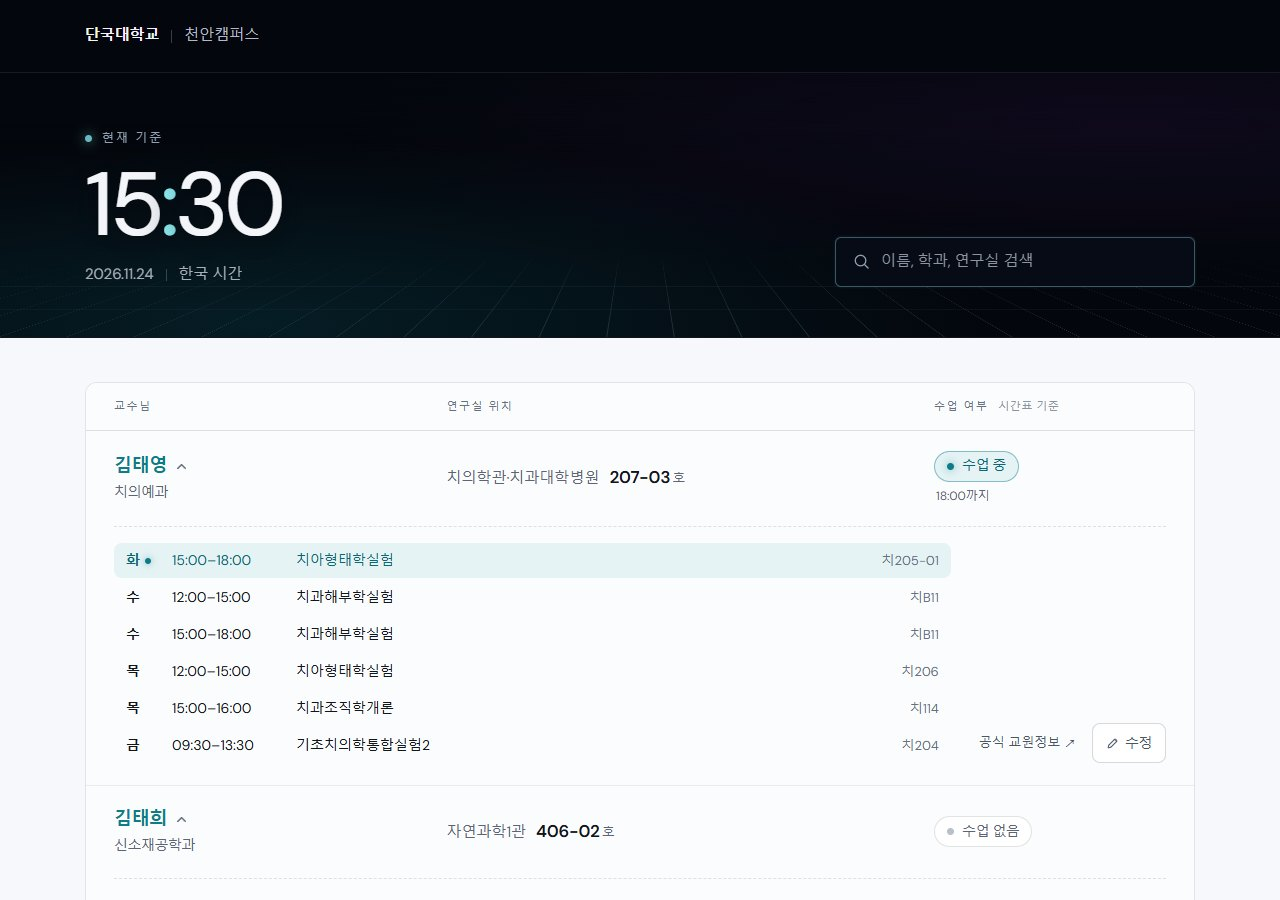
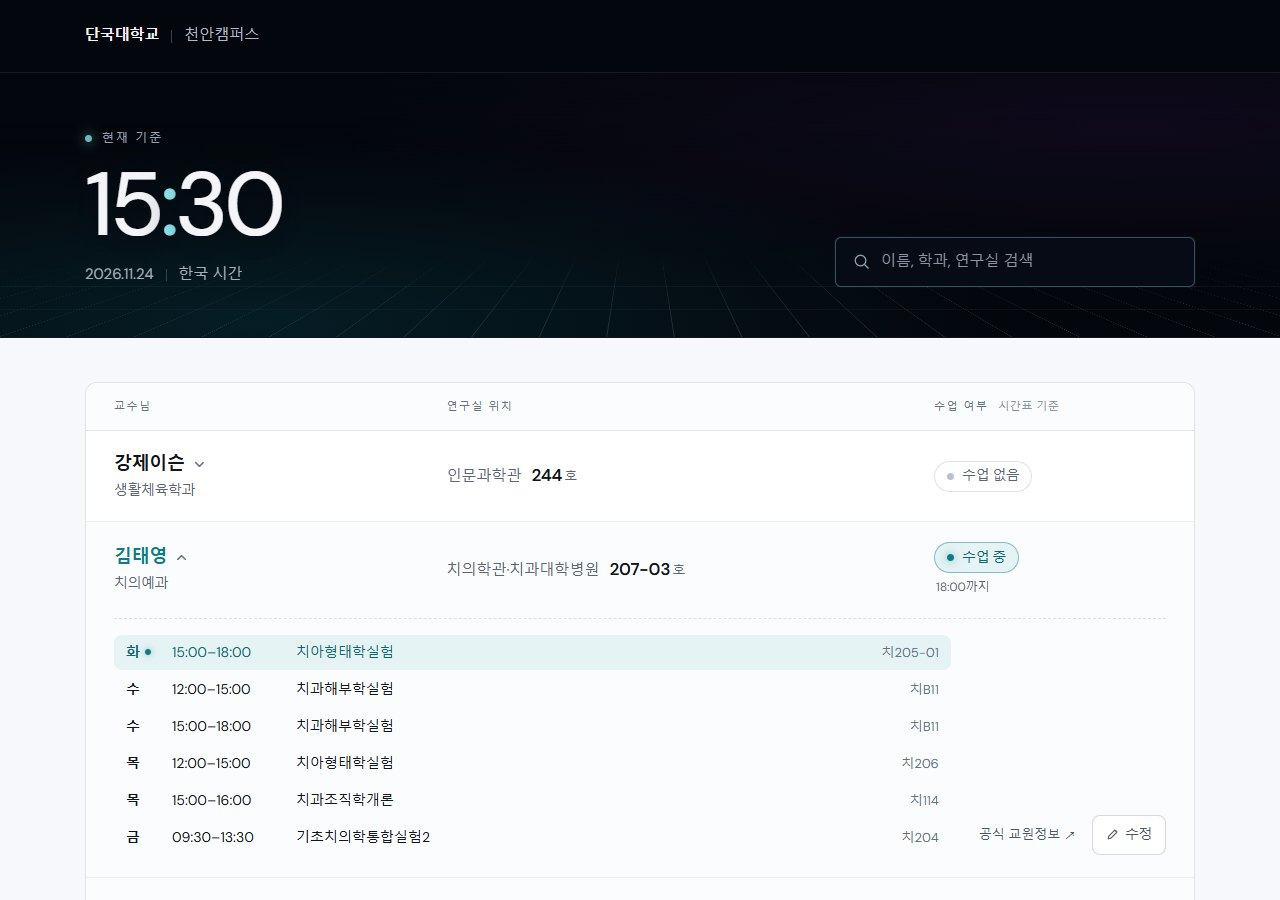
Anyone can save edits: the site posts to the Apps Script save service
The editor no longer asks for a key. It sends the professor's building, room and classes to the Apps Script web app, which validates them and commits site/data.js. The site also removes the GitHub key that the earlier version kept in the browser. README explains the save path and how to change the key.

diff --git a/site/app.js b/site/app.js
@@ -1,15 +1,17 @@
 /* 현재 시각(한국 시간)으로 교수님별 수업 여부를 계산해 표를 채운다.
-   이름을 누르면 그 교수님의 수업 시간이 아래로 펼쳐지고, '수정'으로 연구실·수업 시간을 고쳐
-   GitHub 저장소의 site/data.js에 바로 저장한다(관리자 키 필요, 저장 뒤 1~2분이면 사이트에 반영). */
+   이름을 누르면 그 교수님의 수업 시간이 아래로 펼쳐지고, '수정'으로 연구실·수업 시간을 고칠 수 있다.
+   저장은 누구나 할 수 있다: 저장 담당 Google Apps Script(apps-script/Code.gs)가 내용을 검사한 뒤
+   GitHub 저장소의 site/data.js에 커밋하고, 1~2분 뒤 사이트에 반영된다(키는 Apps Script 안에만 있음). */
 (function () {
   'use strict';
-  var REPO = 'taeheekim2024-star/go.taeheekim.kr';
-  var DATA_PATH = 'site/data.js';
-  var KEY_STORE = 'go-site-github-key';
-  var AUTHOR = { name: 'taeheekim2024-star', email: '295946926+taeheekim2024-star@users.noreply.github.com' };
+  var SAVE_URL = 'https://script.google.com/macros/s/AKfycbzAu1eopgCFC0UlqjWzMLiZxXSylPyjEvsUjgCh26W2imjFvGS-29w_O-ZmOzA_O6HnDg/exec';
+  var OLD_KEY_STORE = 'go-site-github-key';
   var DAYS = ['일', '월', '화', '수', '목', '금', '토'];
   var DAY_ORDER = [1, 2, 3, 4, 5, 6, 0];
   var D = null; // data.js를 받은 뒤 채움(start 참고)
+
+  // 예전 방식(브라우저에 GitHub 키 저장)에서 남은 키는 이제 필요 없으므로 지운다.
+  try { localStorage.removeItem(OLD_KEY_STORE); } catch (e) { /* 저장소를 못 쓰는 브라우저 */ }
 
   /* ---------- 수업 여부 계산 ---------- */
   // kind: class(수업 중) · free(수업 없음) · unknown(시간표 미확인) · expired(학기 밖이라 갱신 필요)
@@ -46,47 +48,8 @@
     });
   }
 
-  /* ---------- data.js 읽고 쓰기(형식은 go_site_kit/migrate-data.mjs와 같아야 함) ---------- */
-  var HEADER = "/* 교수님 연구실·시간표 자료. 사이트에서 '수정'으로 저장하면 이 파일 전체가 다시 써진다.\n" +
-    "   'window.FACULTY = ' 뒤는 JSON 형식을 지킨다(큰따옴표, 주석·끝 쉼표 없음).\n" +
-    "   events: day 0=일 1=월 … 6=토, start·end는 한국 시간 'HH:MM', room은 강의실. */";
-  function serialize(d) {
-    var q = JSON.stringify;
-    var lines = [HEADER, 'window.FACULTY = {'];
-    Object.keys(d).forEach(function (key) {
-      if (key !== 'professors') lines.push('  ' + q(key) + ': ' + q(d[key]) + ',');
-    });
-    lines.push('  "professors": [');
-    d.professors.forEach(function (p, i) {
-      var head = Object.keys(p).filter(function (k) { return k !== 'events'; })
-        .map(function (k) { return q(k) + ': ' + q(p[k]); }).join(', ');
-      lines.push('    {' + head + ', "events": [');
-      p.events.forEach(function (e, j) { lines.push('      ' + q(e) + (j < p.events.length - 1 ? ',' : '')); });
-      lines.push('    ]}' + (i < d.professors.length - 1 ? ',' : ''));
-    });
-    lines.push('  ]', '};', '');
-    return lines.join('\n');
-  }
-  function parseData(text) {
-    var start = text.indexOf('{', text.indexOf('window.FACULTY'));
-    var end = text.lastIndexOf('}');
-    return JSON.parse(text.slice(start, end + 1));
-  }
-  function toBase64(text) {
-    var bytes = new TextEncoder().encode(text);
-    var binary = '';
-    for (var i = 0; i < bytes.length; i += 0x8000) binary += String.fromCharCode.apply(null, bytes.subarray(i, i + 0x8000));
-    return btoa(binary);
-  }
-  function fromBase64(b64) {
-    var binary = atob(b64.replace(/\s/g, ''));
-    var bytes = new Uint8Array(binary.length);
-    for (var i = 0; i < binary.length; i++) bytes[i] = binary.charCodeAt(i);
-    return new TextDecoder().decode(bytes);
-  }
-
   window.FacultyLogic = {
-    statusAt: statusAt, seoulNow: seoulNow, serialize: serialize, parseData: parseData,
+    statusAt: statusAt, seoulNow: seoulNow,
     get people() { return D.professors; },
   };
 
@@ -365,22 +328,6 @@
     });
     body.append(add);
 
-    var keyBox = el('div', 'ed-key');
-    var keyInput = el('input');
-    keyInput.type = 'password';
-    keyInput.autocomplete = 'off';
-    keyInput.placeholder = 'github_pat_…';
-    // 키는 한 번 넣으면 이 기기에 저장되어 그다음부터는 칸 자체가 보이지 않는다(틀린 키면 다시 물음).
-    function paintKey() {
-      keyBox.textContent = '';
-      keyBox.hidden = !!localStorage.getItem(KEY_STORE);
-      if (keyBox.hidden) return;
-      keyBox.append(field('관리자 키 (GitHub)', keyInput));
-      keyBox.append(el('p', 'ed-hint', '처음 한 번만 넣으면 이 기기에 저장됩니다.'));
-    }
-    paintKey();
-    body.append(keyBox);
-
     var foot = el('div', 'ed-foot');
     var error = el('p', 'ed-error');
     error.setAttribute('role', 'alert');
@@ -441,30 +388,21 @@
         if (e.start >= e.end) return fail(e.title + ': 종료 시각이 시작보다 늦어야 합니다.');
         events.push(e);
       }
-      var storedKey = localStorage.getItem(KEY_STORE);
-      var key = storedKey || keyInput.value.trim();
-      if (!key) return fail('관리자 키를 넣어 주세요.');
-      var change = { building: building.value.trim(), room: room.value.trim(), events: sortEvents(events) };
+      var change = { id: person.id, building: building.value.trim(), room: room.value.trim(), events: sortEvents(events) };
       var unchanged = change.building === person.building && change.room === person.room &&
         JSON.stringify(change.events) === JSON.stringify(sortEvents(person.events));
-      if (unchanged && storedKey) {
+      if (unchanged) {
         shut();
         return toast('바뀐 내용이 없습니다.');
       }
       saving = true;
       save.disabled = true;
       save.textContent = '저장 중…';
-      // 바뀐 것 없이 새 키만 넣은 경우: 저장소를 한 번 읽어 키가 맞는지만 확인하고 키를 기억한다.
-      var job = unchanged
-        ? github('GET', '/repos/' + REPO + '/contents/' + DATA_PATH + '?ref=main', key).then(function () { return null; })
-        : saveToGitHub(person.id, person.name, change, key);
-      job.then(function (latest) {
-        localStorage.setItem(KEY_STORE, key);
-        saving = false;
-        shut();
-        if (!latest) return toast('관리자 키를 이 기기에 저장했습니다. 바뀐 내용은 없습니다.');
+      sendChange(change).then(function (latest) {
         D = latest;
         window.FACULTY = latest;
+        saving = false;
+        shut();
         buildRows();
         var row = rows.find(function (r) { return r.person.id === person.id; });
         if (row && row.toggle) row.toggle.focus();
@@ -473,70 +411,28 @@
         saving = false;
         save.disabled = false;
         save.textContent = '저장';
-        if (err && err.status === 401) {
-          localStorage.removeItem(KEY_STORE);
-          paintKey();
-          return fail('관리자 키가 맞지 않습니다. 키를 다시 넣어 주세요.');
-        }
-        if (err && (err.status === 403 || err.status === 404)) return fail('이 키로는 저장할 수 없습니다. 키의 저장소 권한(Contents 쓰기)을 확인해 주세요.');
         fail(err && err.userMessage ? err.userMessage : '저장하지 못했습니다. 연결을 확인하고 다시 저장해 주세요.');
       });
     });
   }
 
-  function github(method, path, key, body) {
-    return fetch('https://api.github.com' + path, {
-      method: method,
-      cache: 'no-store',
-      headers: {
-        'Accept': 'application/vnd.github+json',
-        'Authorization': 'Bearer ' + key,
-        'X-GitHub-Api-Version': '2022-11-28',
-        'Content-Type': 'application/json',
-      },
-      body: body ? JSON.stringify(body) : undefined,
+  // 저장 담당 Apps Script로 보낸다. text/plain으로 보내 사전 확인(preflight) 없이 가고, 쿠키는 보내지 않는다.
+  function sendChange(change) {
+    return fetch(SAVE_URL, {
+      method: 'POST',
+      credentials: 'omit',
+      redirect: 'follow',
+      headers: { 'Content-Type': 'text/plain;charset=utf-8' },
+      body: JSON.stringify(change),
     }).then(function (response) {
-      return response.json().catch(function () { return {}; }).then(function (data) {
-        if (!response.ok) {
-          var err = new Error(data && data.message ? data.message : 'GitHub ' + response.status);
-          err.status = response.status;
-          throw err;
-        }
-        return data;
-      });
-    });
-  }
-
-  // 저장소의 최신 data.js를 받아 이 교수님 자료만 바꿔 다시 올린다(다른 기기에서 고친 내용 보존).
-  function saveToGitHub(id, name, change, key, retried) {
-    var path = '/repos/' + REPO + '/contents/' + DATA_PATH;
-    return github('GET', path + '?ref=main', key).then(function (file) {
-      var latest;
-      try { latest = parseData(fromBase64(file.content)); } catch (e) {
-        var err = new Error('parse');
-        err.userMessage = '저장소의 자료 파일 형식을 읽지 못했습니다.';
+      return response.json();
+    }).then(function (result) {
+      if (!result || !result.ok || !result.data) {
+        var err = new Error('save failed');
+        err.userMessage = result && result.error ? result.error : '저장하지 못했습니다. 잠시 뒤 다시 저장해 주세요.';
         throw err;
       }
-      var target = latest.professors.find(function (p) { return p.id === id; });
-      if (!target) {
-        var missing = new Error('missing');
-        missing.userMessage = '저장소 자료에서 이 교수님을 찾지 못했습니다.';
-        throw missing;
-      }
-      target.building = change.building;
-      target.room = change.room;
-      target.events = change.events;
-      return github('PUT', path, key, {
-        message: name + ' 교수님 정보 수정',
-        content: toBase64(serialize(latest)),
-        sha: file.sha,
-        branch: 'main',
-        author: AUTHOR,
-        committer: AUTHOR,
-      }).then(function () { return latest; });
-    }).catch(function (err) {
-      if (!retried && err && (err.status === 409 || err.status === 422)) return saveToGitHub(id, name, change, key, true);
-      throw err;
+      return result.data;
     });
   }
 

diff --git a/site/style.css b/site/style.css
@@ -111,8 +111,6 @@ button:focus-visible,a:focus-visible,input:focus-visible{outline:2px solid var(-
 .ed-remove:hover{background:#f6ebe7}
 .ed-add{display:block;width:100%;min-height:44px;margin-top:10px;border:1px dashed rgba(18,21,26,.25);border-radius:6px;background:#fff;font-size:14px;color:var(--ink)}
 .ed-add:hover{border-color:var(--accent);color:var(--accent)}
-.ed-key{margin-top:20px;padding-top:16px;border-top:1px solid var(--line)}
-.ed-hint{margin-top:6px;font-size:12px;color:var(--soft)}
 .ed-foot{flex-shrink:0;padding:14px 22px 18px;border-top:1px solid var(--line);background:#f7f8fb}
 .ed-error{margin:0 0 12px;padding:10px 12px;border:1px solid #eddbd3;border-radius:6px;background:#fff1eb;font-size:13.5px;line-height:1.6;color:#9a5b47}
 .ed-actions{display:flex;justify-content:flex-end;gap:9px}

diff --git a/site/index.html b/site/index.html
@@ -10,8 +10,8 @@
 <link rel="preconnect" href="https://fonts.googleapis.com">
 <link rel="preconnect" href="https://fonts.gstatic.com" crossorigin>
 <link rel="stylesheet" href="https://fonts.googleapis.com/css2?family=DM+Sans:wght@400;450;500;550;600;650;700&amp;display=swap">
-<link rel="stylesheet" href="style.css?v=3">
-<script src="app.js?v=5" defer></script>
+<link rel="stylesheet" href="style.css?v=4">
+<script src="app.js?v=6" defer></script>
 </head>
 <body>
 <header class="site-head"><div class="site-head-inner">

diff --git a/README.md b/README.md
@@ -17,9 +17,11 @@
 
 ## 자료 고치기
 
-사이트에서: 이름을 눌러 펼친 뒤 **수정** → 건물·호실·수업(수업명, 요일, 시작, 종료, 강의실)을 고치고 **저장**. 저장하면 이 저장소의 `site/data.js`가 커밋되고 1~2분 뒤 사이트에 반영된다. 저장에는 관리자 키가 필요하다(처음 한 번 넣으면 그 기기 브라우저에만 저장).
+사이트에서 **누구나** 고칠 수 있다: 이름을 눌러 펼친 뒤 **수정** → 건물·호실·수업(수업명, 요일, 시작, 종료, 강의실)을 고치고 **저장**. 키는 필요 없다. 1~2분 뒤 사이트에 반영된다.
 
-관리자 키 만들기: GitHub → Settings → Developer settings → Personal access tokens → Fine-grained tokens → Generate new token. Repository access는 *Only select repositories*에서 `go.taeheekim.kr`만, Permissions의 Repository permissions에서 *Contents*를 *Read and write*로 두고 만든 뒤, 나온 키(`github_pat_…`)를 수정 창의 '관리자 키'에 붙여 넣는다. 키가 만료되면 수정 창이 다시 키를 묻는다.
+저장 경로: 사이트 → 저장 담당 Google Apps Script 웹 앱(`apps-script/Code.gs`, 프로젝트 'go.taeheekim.kr 저장', 실행 계정 = 소유자, 액세스 = 모든 사용자) → GitHub contents API로 `site/data.js` 커밋('<이름> 교수님 정보 수정 (사이트)'). Apps Script가 형식과 길이를 검사하고(기존 교수님의 건물·호실·수업만, 수업 60개, 시각 HH:MM, 10분에 30번까지), GitHub 키는 Apps Script 스크립트 속성 `GITHUB_TOKEN`에만 있다. 장난 수정은 커밋 이력으로 되돌린다.
+
+키 바꾸기: GitHub → Settings → Developer settings → Fine-grained tokens의 'go.taeheekim.kr 수정'(이 저장소만, Contents 읽기·쓰기, 2027-11-24 만료)을 Regenerate → 새 키를 Apps Script 프로젝트 설정 > 스크립트 속성 `GITHUB_TOKEN`에 붙여 넣고 저장. 배포 주소는 그대로다. 저장 담당 상태는 웹 앱 주소를 그냥 열면(`{"ok":true,"read":200}`) 확인된다. `apps-script/Code.gs`를 고치면 편집기에 붙여 넣고 배포 관리에서 새 버전으로 배포한다.
 
 파일로 직접 고칠 때는 `site/data.js`의 `window.FACULTY = ` 뒤를 JSON 형식(큰따옴표, 주석·끝 쉼표 없음)으로 유지한다. 사이트 저장이 이 형식으로 파일 전체를 다시 쓴다. 학기 기간·휴일·최초 확인일도 이 파일에 있다. 화면 문구는 늘리지 않는다(사이트 제목이나 소개 문장 없음).
 
